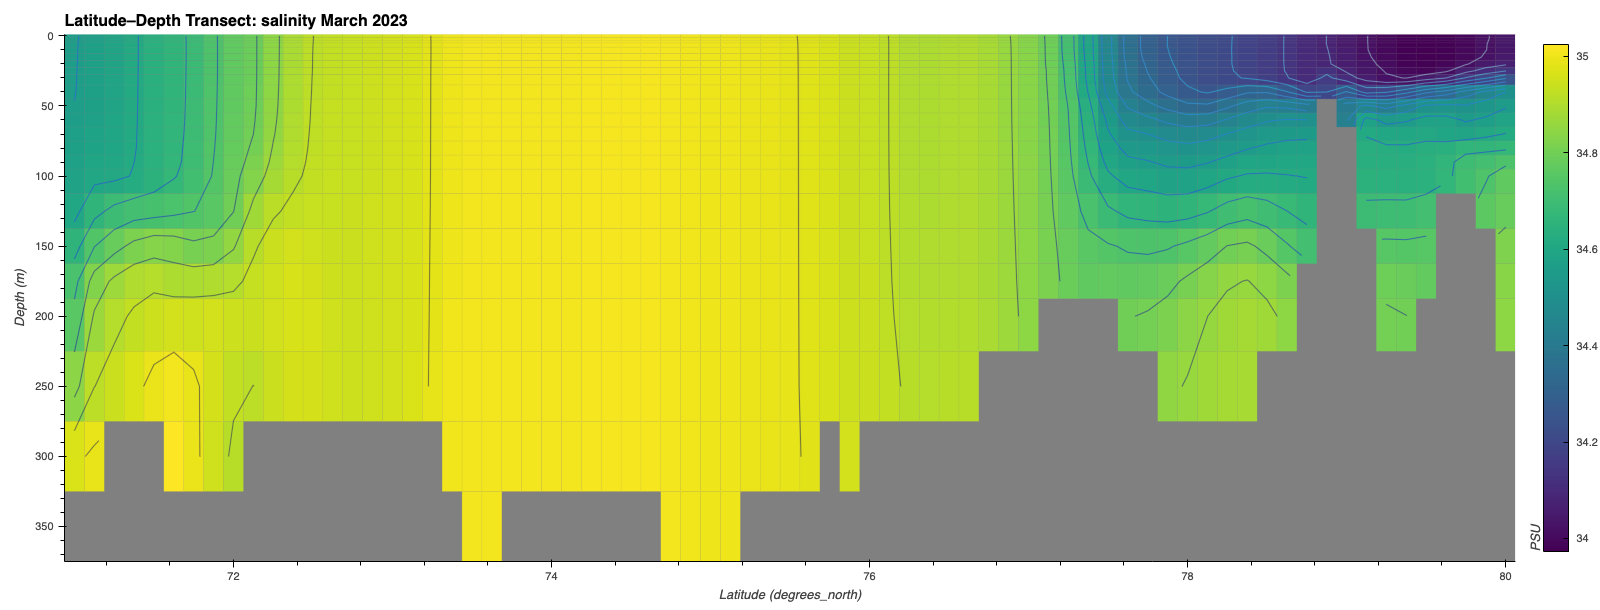
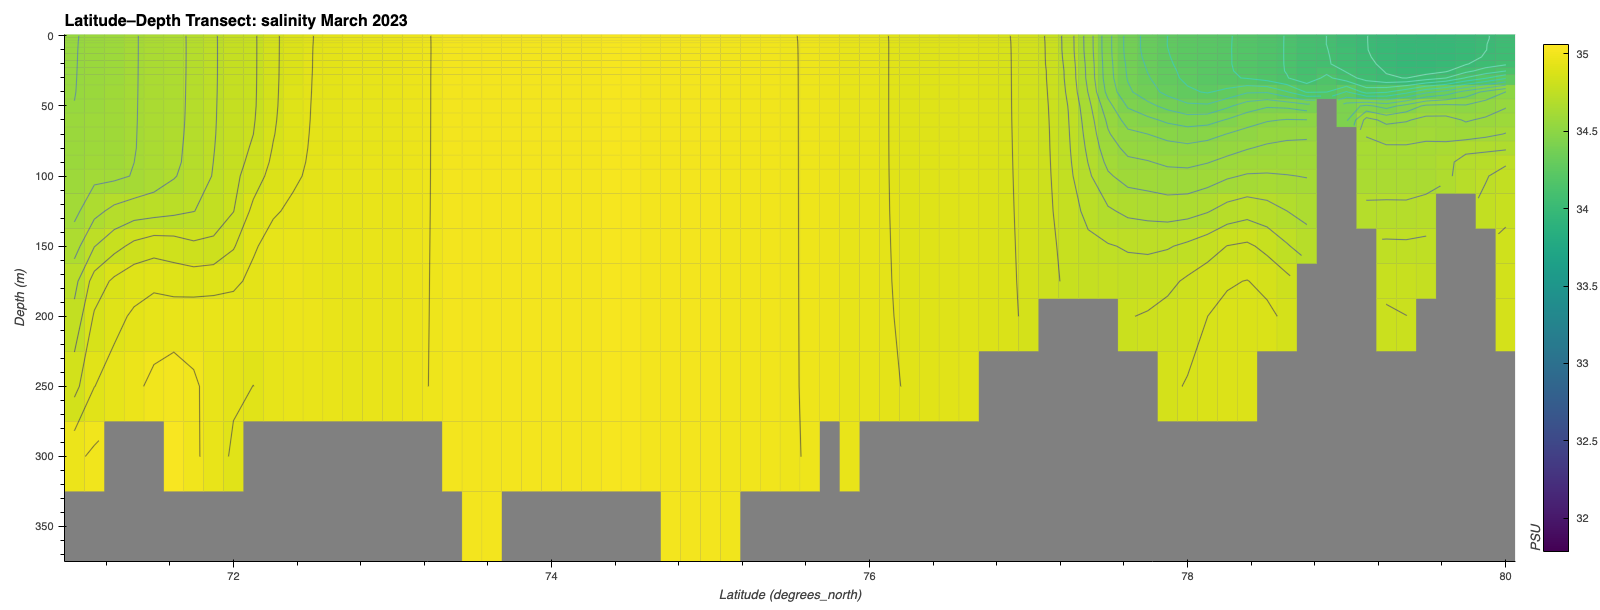
added max min values so cbar stays the same for all months

diff --git a/main.py b/main.py
@@ -52,17 +52,19 @@ def main():
     # Find max valid depth
     max_valid_depth = valid_depths.max().values
 
-
-    for i in range(month.__len__()):
-        for j in range(variables.__len__()):
+    for j in range(variables.__len__()):
+        ds_var = ds[variables[j]]
+        max_valid_vals = np.nanmax(ds_var.values)
+        min_valid_vals = np.nanmin(ds_var.values)
+        for i in range(month.__len__()):
             month_dt = datetime.strptime(f"{month[i]} {year}", "%B %Y")
-            ds_var = ds[variables[j]]
             # select based on valid values
             slice_ds = ds_var.sel(longitude=30,
-                              depth=slice(0,max_valid_depth),
-                              latitude=slice(71,80),
-                              time=slice(month_dt,month_dt+relativedelta(months=+1))
-                              )
+                                  depth=slice(0,max_valid_depth),
+                                  latitude=slice(71,80),
+                                  time=slice(month_dt,month_dt+relativedelta(months=+1))
+                                  )
+
             # Plot with HoloViews (heatmap with contours)
             heatmap = slice_ds.hvplot.quadmesh(
                 x='latitude',
@@ -74,7 +76,8 @@ def main():
                 width=1600,
                 height=600,
                 bgcolor='gray',
-                clabel=units[j]
+                clabel=units[j],
+                clim=(min_valid_vals, max_valid_vals),
             )
             contours = slice_ds.hvplot.contour(
                 x='latitude', y='depth',
